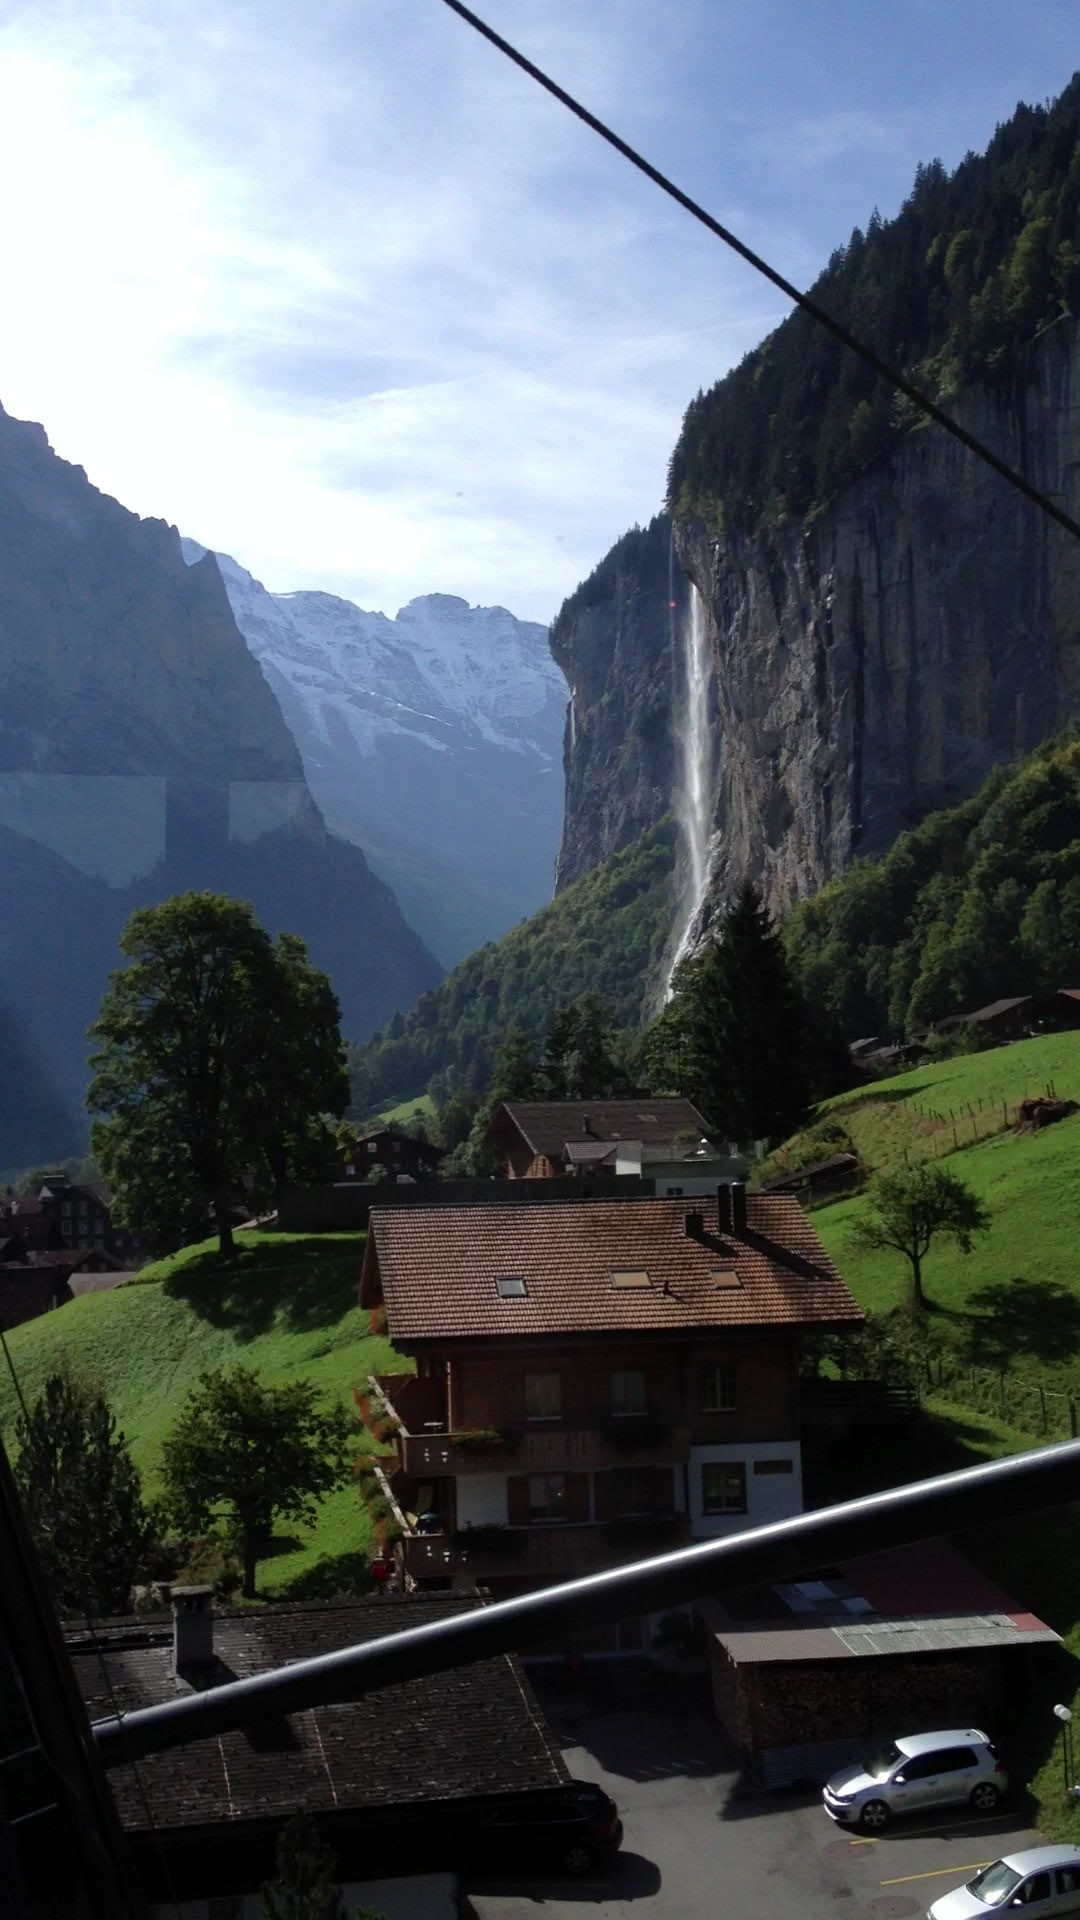
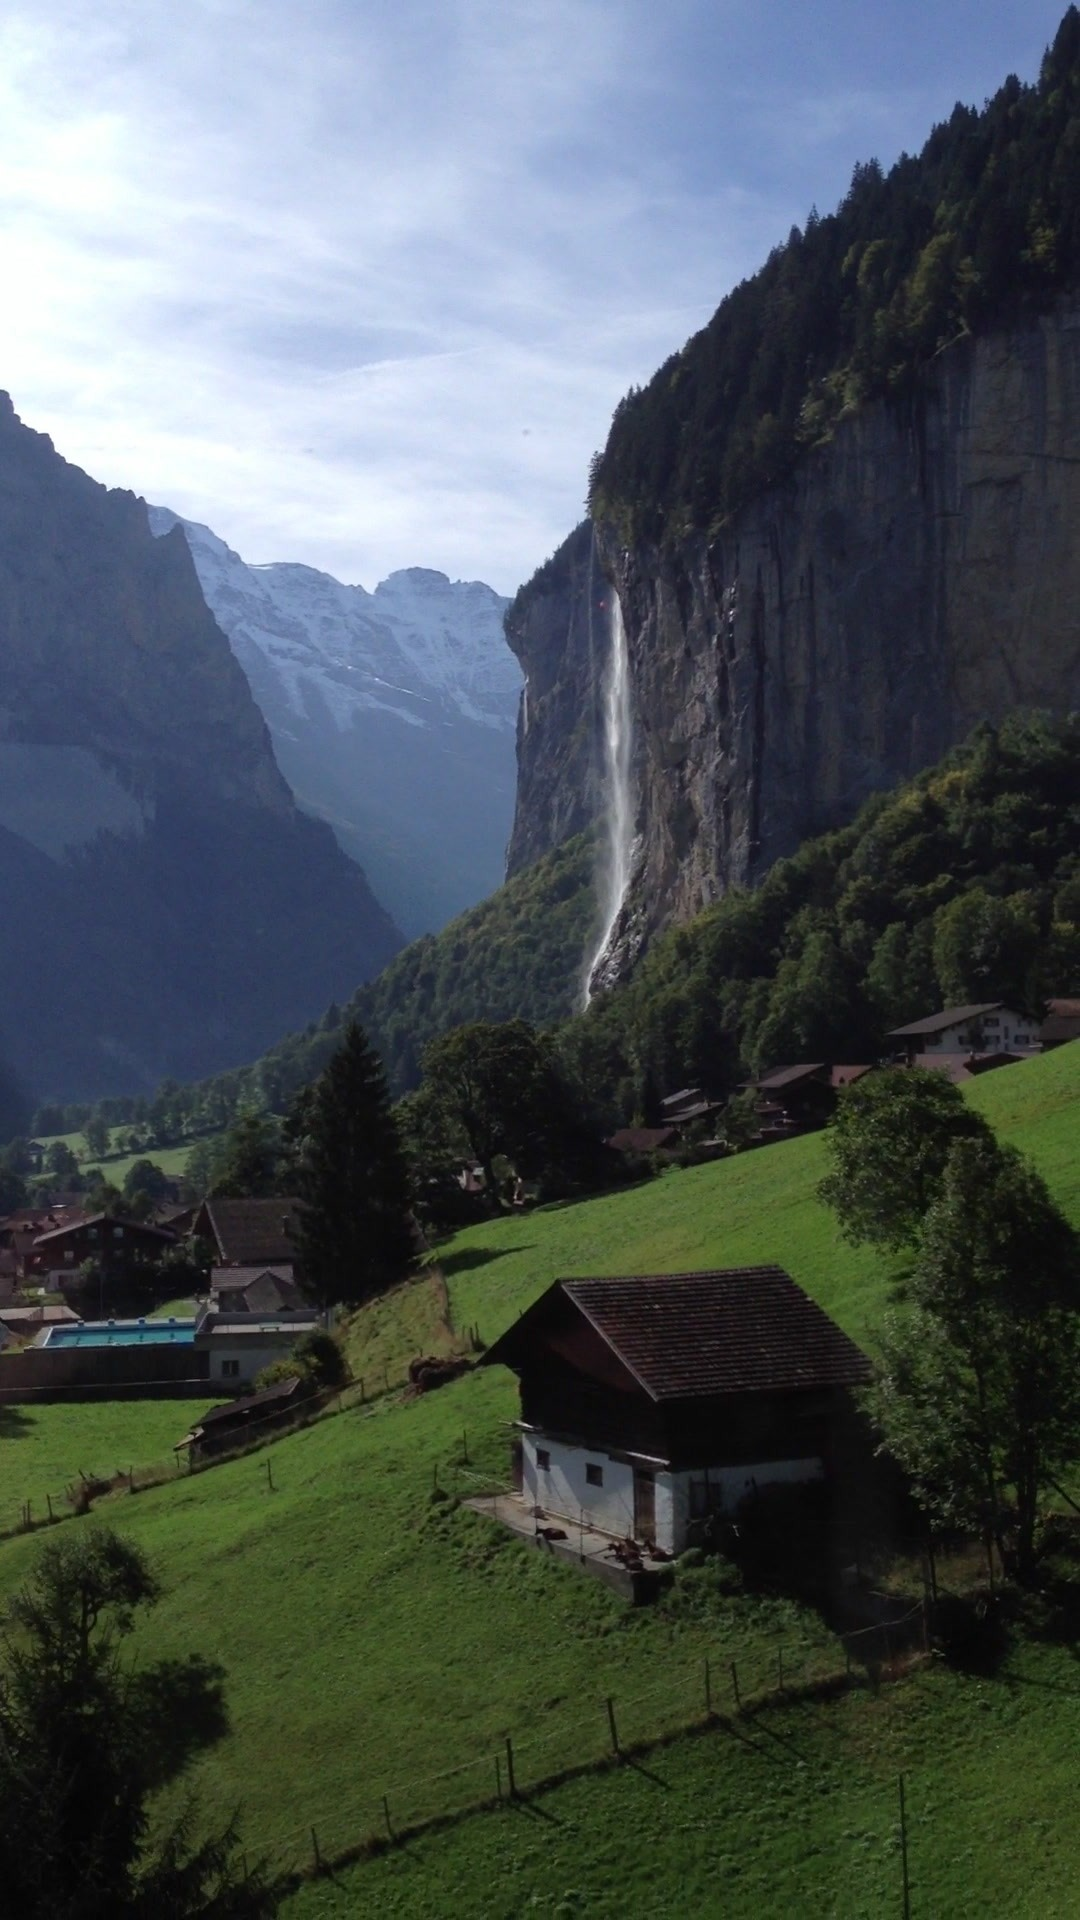
Swap Switzerland (Murren) hero photo to a more vibrant waterfall shot
Replaces the hazy, cable-wire-crossed photo with a frame pulled from
the original video pan across the valley — brighter blue sky, more
vivid greens, and the little chalet prominent in the foreground.

Claude-Session: https://claude.ai/code/session_01JmRUF7k1RkZy1qrXLw7mRS

diff --git a/vacations/index.html b/vacations/index.html
@@ -530,7 +530,7 @@
     </a>
 
     <a class="trip-card" href="https://ghazal-tehrani.me/vacations/switzerland-alps" target="_blank">
-      <img class="trip-thumb" src="switzerland-alps/thumb.jpg" alt="Waterfall over Lauterbrunnen valley, from the cable car up to Mürren">
+      <img class="trip-thumb" src="switzerland-alps/thumb.jpg" alt="Staubbach Falls over Lauterbrunnen, with a chalet in the foreground">
       <div class="trip-body">
         <div class="trip-title">Mürren &amp; Basel, Switzerland</div>
         <div class="trip-dates">Sep 21–27, 2012</div>

diff --git a/vacations/switzerland-alps/index.html b/vacations/switzerland-alps/index.html
@@ -69,7 +69,7 @@
     </div>
   </div>
 </div>
-<div class="hero-photo-cap">📷 <a href="hero.jpg" target="_blank" style="color:inherit;">View full photo</a> — from the cable car up to Mürren, with the waterfall over the Lauterbrunnen valley</div>
+<div class="hero-photo-cap">📷 <a href="hero.jpg" target="_blank" style="color:inherit;">View full photo</a> — the Staubbach Falls over Lauterbrunnen, with the little chalet in the foreground</div>
 
 <div id="map"></div>
 
